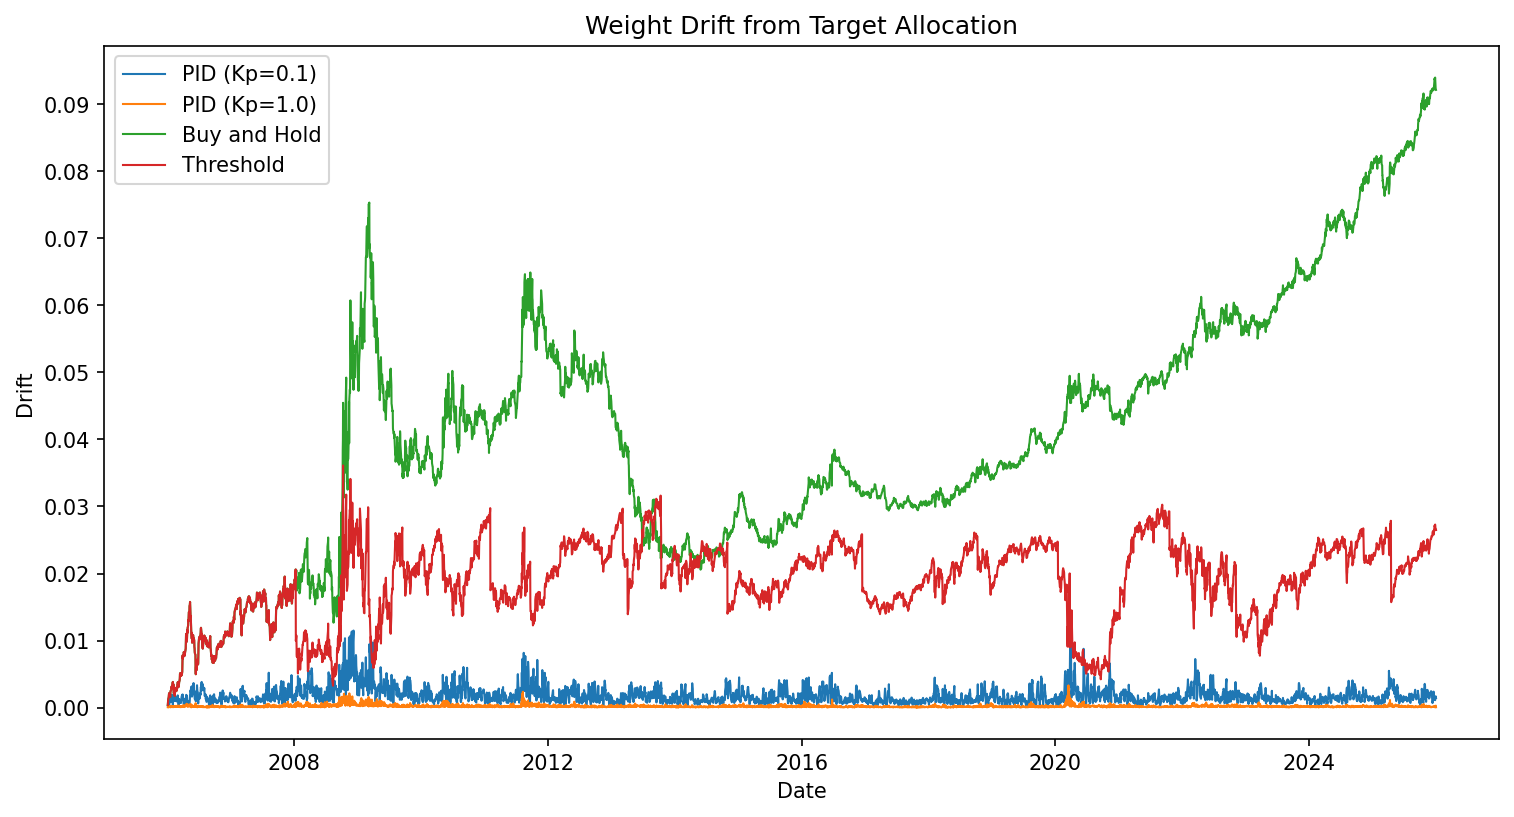
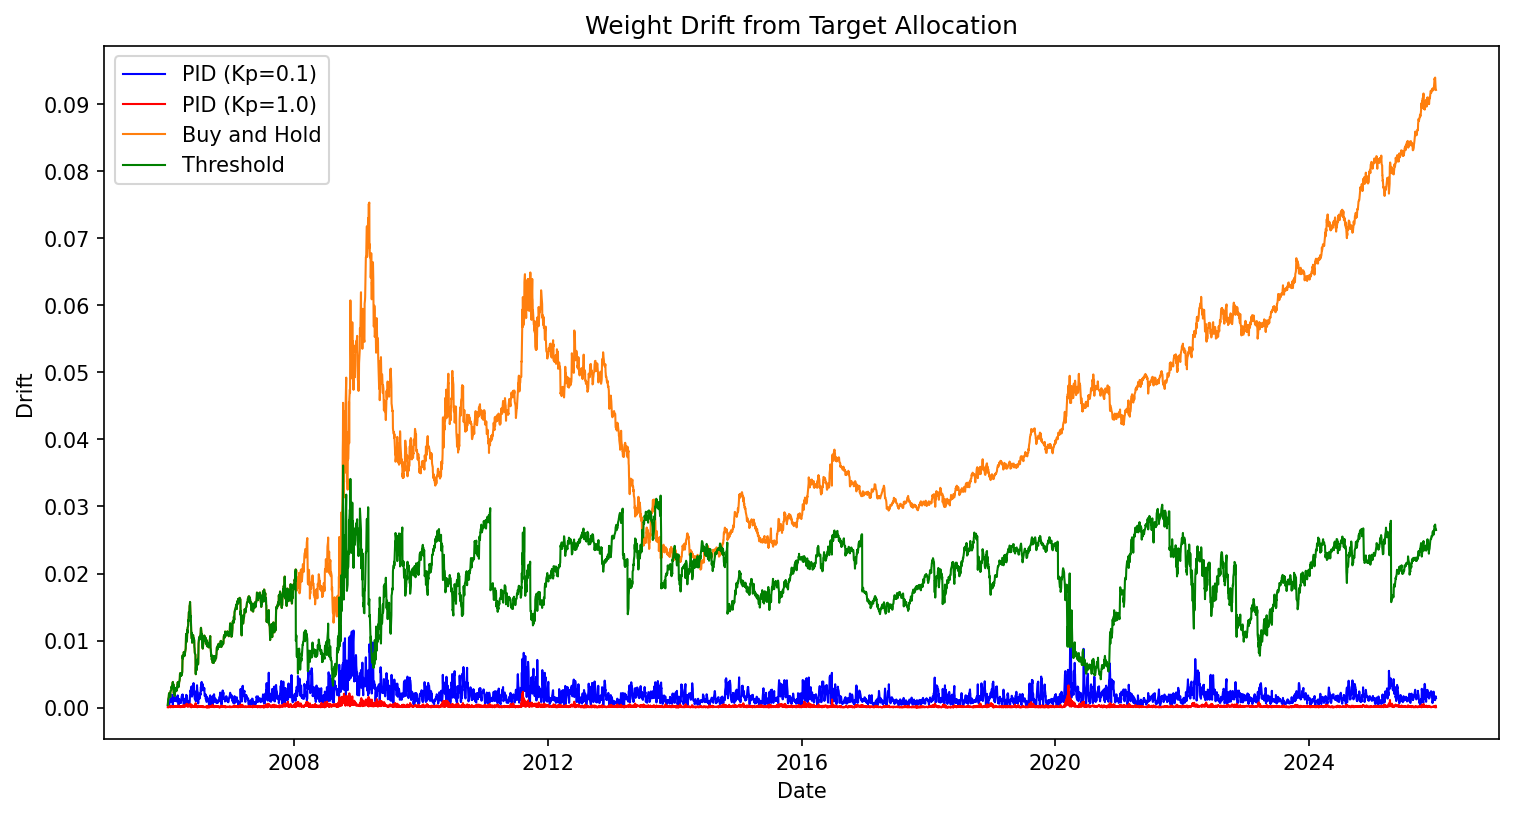
Markowitz Layer, Notebook and README update

diff --git a/markowitz.py b/markowitz.py
@@ -9,12 +9,15 @@ def compute_inputs(returns):
     
     return expected_returns, covariance_matrix
 
-def optimize_weights(mu, Sigma):
+def optimize_weights(mu, Sigma, prev_weights=None, lambda_turnover=0.1):
     N = len(mu)
     x0 = np.ones(N) / N
     bounds = [(0,1)] * N
     def objective_function(w):
-        fun = (w.T @ mu / np.sqrt(w.T @ Sigma @ w))
+        if prev_weights is not None:
+            fun = (w.T @ mu / np.sqrt(w.T @ Sigma @ w)) - lambda_turnover * np.sum(np.abs(w - prev_weights))
+        else:
+            fun = (w.T @ mu / np.sqrt(w.T @ Sigma @ w))
         return -fun
     result = minimize(objective_function, x0, method='SLSQP', bounds=bounds, constraints={'type': 'eq', 'fun': lambda w: np.sum(w) - 1})
     
@@ -27,13 +30,15 @@ def get_optimal_weights(close, window, rebalance_freq):
     returns = close.pct_change().dropna()
     rebalance_dates = returns.resample(rebalance_freq).first().index
     result = pd.DataFrame(columns=close.columns)
+    prev_weights = None
 
     for date in rebalance_dates:
         window_returns = returns.loc[:date].tail(window)
         if len(window_returns) < window:
             continue
         mu, Sigma = compute_inputs(window_returns)
-        result.loc[date] = optimize_weights(mu, Sigma)
+        result.loc[date] = optimize_weights(mu, Sigma, prev_weights)
+        prev_weights = result.loc[date].values
     
     return result
 

diff --git a/README.md b/README.md
@@ -6,25 +6,27 @@ Proportional–Integral–Derivative (PID) controllers are used in a wide variet
 1. pid_controller.py - Creates the PIDController class, houses the calculations for the proportion, integral, and derivative terms
 2. test_pid.py - Tests that pid_controller.py is calculating u correctly
 3. data_pipeline.py - Uses yfinance to fetch historical closing prices
-4. backtest.py - Backtests the PID strategy as well as buy and hold and threshold given a specified date range, tracking portfolio value, weight drift, and trade signals
-5. analysis.ipynb - Comprehensive documentation of the project, including an introduction, mathematical foundation, equity curve analysis, statistical analysis, sensitivity analysis, weight drift analysis, and conclusion
+4. markowitz.py - Applies Markowitz portfolio theory for dynamic weights
+5. backtest.py - Backtests the PID strategy as well as buy and hold and threshold given a specified date range, tracking portfolio value, weight drift, and trade signals
+6. analysis.ipynb - Comprehensive documentation of the project, including an introduction, mathematical foundation, equity curve analysis, statistical analysis, sensitivity analysis, weight drift analysis, and conclusion
 
 ## Methodology
-The PID controller works by using the target and actual weight of any given asset in the portfolio to calculate three terms: proportion, integral and derivative. The control signal u is the sum of these terms, and is the signal to trade a stock, where u(t) = Kp * e(t) + Ki * sum(e * dt) + Kd * (e(t) - e(t-1)) / dt. A full mathematical explanation is available in analysis.ipynb
+The PID controller works by using the target and actual weight of any given asset in the portfolio to calculate three terms: proportion, integral and derivative. The control signal u is the sum of these terms, and is the signal to trade a stock, where u(t) = Kp * e(t) + Ki * sum(e * dt) + Kd * (e(t) - e(t-1)) / dt. A full mathematical explanation is available in analysis.ipynb. Markowitz portfolio theory is used to dynamically compute optimal target weights monthly, using a turnover-penalized Sharpe maximization on a 252-day rolling window.
 
 ## Results
 1. The PID strategy had significantly less weight drift than the other two strategies, having ~20x more accuracy than the buy and hold strategy and ~5-10x more accuracy than the threshold strategy.
 2. Both rebalancing strategies (PID and threshold) outperform buy and hold in market dips. However, in bull markets, buy and hold is stronger due to the lack of transaction costs. Each of the three strategies' returns were nearly identical in sideways markets.
 3. Statistically, the PID strategy had a lower Sharpe ratio than the other two strategies, with a similar maximum drawdown. It also has a relatively high annual turnover of 40% at a low Kp to 96% at a high Kp.
 4. The PID strategy's Sharpe Ratio is roughly constant across Kp and Ki values. Its annual turnover is largely dependent on its Kp with changes in Ki being negligible.
+5. Replacing static target weights with Markowitz-optimized weights improved Sharpe ratio from 0.880 to 0.971 and reduced maximum drawdown from -29.3% to -19.3%.
+6. Without a turnover penalty, Markowitz reoptimization generated 3.6x annual turnover. A turnover-penalized objective function reduced this to 1.6x with a further improvement in Sharpe.
+7. Markowitz PID underperforms static PID on absolute returns due to consciously lower equity exposure.
 ![Equity Curves](images/equity_curves.png)
 ![Weight Drift](images/weight_drift.png)
 ![Sharpe Ratio and Annual Turnover Heatmap](images/sharpe_turnover_heatmap.png)
+![Static vs. Markowitz Equity Curves](images/static_vs_markowitz_equity_curves.png)
 
 ## How to Run
 1. Install dependencies: pip install numpy pandas yfinance seaborn matplotlib
 2. Run the backtest: Use backtest.py for a working example to call run_backtest, run_buy_and_hold and run_threshold
 3. Open the notebook: python -m jupyterlab
-
-## What's Next
-The next part of this project will be replacing the relatively arbitrary static weights with dynamically optimised allocations utilizing Markowitz Portfolio Theory.